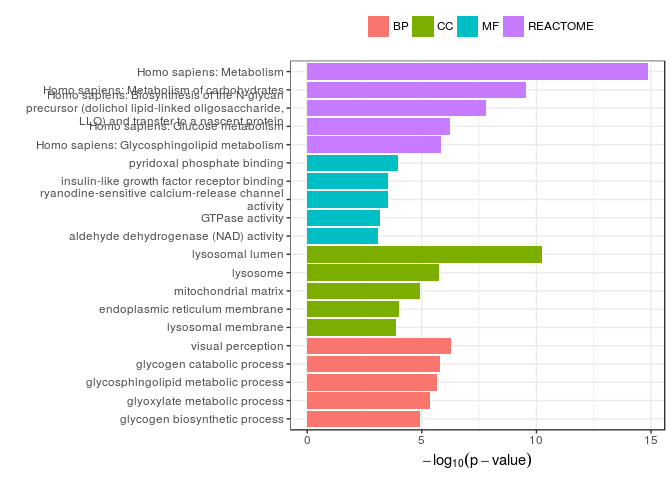
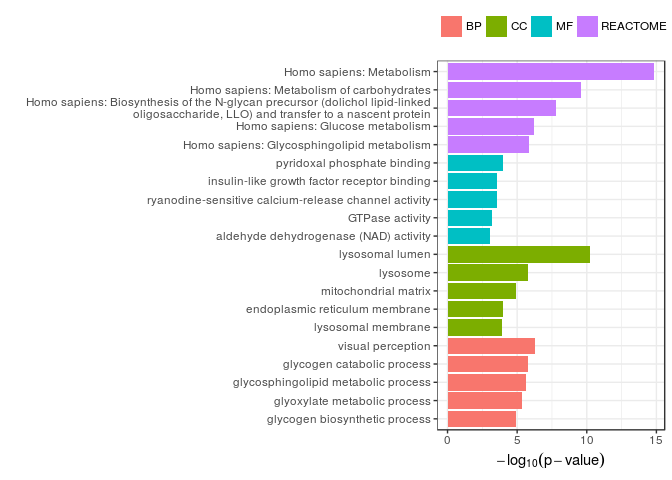
Updated README

diff --git a/README.md b/README.md
@@ -95,7 +95,8 @@ head(analysis$reactome)
 It is also possible to generate a bar plot that focuses on the most enriched term of one or all categories:
 
 ``` r
-plot_fun_enrich(enr = analysis, aspect = "ALL", benjamini = F, top = 5)
+plot_fun_enrich(enr = analysis, aspect = "ALL", benjamini = F, 
+                top = 5, char_per_line = 80)
 ```
 
 ![](README_files/figure-markdown_github-ascii_identifiers/unnamed-chunk-5-1.png)
